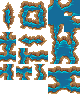
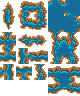
Initial implementation of the river drawing

Changed region(s): [[0.6, 0.0, 1.0, 0.3438], [0.6, 0.2188, 0.8, 0.3438], [0.925, 0.0312, 0.95, 0.0625]]

diff --git a/Narivia.Gui/SpriteEffects/RiverTilingEffect.cs b/Narivia.Gui/SpriteEffects/RiverTilingEffect.cs
@@ -1,0 +1,134 @@
+using Microsoft.Xna.Framework;
+using NuciXNA.Graphics.SpriteEffects;
+using NuciXNA.Primitives;
+
+using Narivia.GameLogic.GameManagers;
+using Narivia.Models;
+
+namespace Narivia.Gui.SpriteEffects
+{
+    public class RiverTilingEffect : SpriteSheetEffect
+    {
+        readonly IWorldManager worldManager;
+
+        readonly World world;
+
+        public Point2D TileLocation { get; set; }
+
+        public RiverTilingEffect(IWorldManager worldManager)
+        {
+            FrameAmount = new Size2D(3, 6);
+
+            this.worldManager = worldManager;
+            this.world = worldManager.GetWorld();
+        }
+
+        public override void UpdateFrame(GameTime gameTime)
+        {
+            CurrentFrame = new Point2D(0, 5);
+
+            bool isRiver = world.Tiles[TileLocation.X, TileLocation.Y].HasRiver;
+            bool isWater = world.Tiles[TileLocation.X, TileLocation.Y].HasWater;
+
+            bool tilesN = world.Tiles[TileLocation.X, TileLocation.Y - 1].HasRiver;
+            bool tilesW = world.Tiles[TileLocation.X - 1, TileLocation.Y].HasRiver;
+            bool tilesS = world.Tiles[TileLocation.X, TileLocation.Y + 1].HasRiver;
+            bool tilesE = world.Tiles[TileLocation.X + 1, TileLocation.Y].HasRiver;
+
+            bool waterN = world.Tiles[TileLocation.X, TileLocation.Y - 1].HasWater;
+            bool waterW = world.Tiles[TileLocation.X - 1, TileLocation.Y].HasWater;
+            bool waterS = world.Tiles[TileLocation.X, TileLocation.Y + 1].HasWater;
+            bool waterE = world.Tiles[TileLocation.X + 1, TileLocation.Y].HasWater;
+            bool waterNW = world.Tiles[TileLocation.X - 1, TileLocation.Y - 1].HasWater;
+            bool waterNE = world.Tiles[TileLocation.X + 1, TileLocation.Y - 1].HasWater;
+            bool waterSW = world.Tiles[TileLocation.X - 1, TileLocation.Y + 1].HasWater;
+            bool waterSE = world.Tiles[TileLocation.X + 1, TileLocation.Y + 1].HasWater;
+
+            if (!isRiver && isWater)
+            {
+                if (tilesN)
+                {
+                    CurrentFrame = new Point2D(3, 0);
+                }
+                else if (tilesW)
+                {
+                    CurrentFrame = new Point2D(4, 0);
+                }
+                else if (tilesS)
+                {
+                    CurrentFrame = new Point2D(3, 1);
+                }
+                else if (tilesE)
+                {
+                    CurrentFrame = new Point2D(4, 1);
+                }
+            }
+            else if (tilesN && tilesW && tilesS && tilesE) // +
+            {
+                CurrentFrame = new Point2D(0, 2);
+            }
+            else if (tilesN && tilesW && !tilesS && tilesE) // _|_
+            {
+                CurrentFrame = new Point2D(0, 3);
+            }
+            else if (tilesN && !tilesW && tilesS && tilesE) // |-
+            {
+                CurrentFrame = new Point2D(1, 3);
+            }
+            else if (tilesN && tilesW && tilesS && !tilesE) // -|
+            {
+                CurrentFrame = new Point2D(0, 4);
+            }
+            else if (!tilesN && tilesW && tilesS && tilesE) // T
+            {
+                CurrentFrame = new Point2D(1, 4);
+            }
+            else if (!tilesN && !tilesW && tilesS && tilesE) // /
+            {
+                CurrentFrame = new Point2D(1, 0);
+            }
+            else if (!tilesN && tilesW && tilesS && !tilesE) // 7
+            {
+                CurrentFrame = new Point2D(2, 0);
+            }
+            else if (tilesN && !tilesW && !tilesS && tilesE) // |_
+            {
+                CurrentFrame = new Point2D(1, 1);
+            }
+            else if (tilesN && tilesW && !tilesS && !tilesE) // _|
+            {
+                CurrentFrame = new Point2D(2, 1);
+            }
+            else if (!tilesW && !tilesE)
+            {
+                if (!tilesN && tilesS && !waterN) // ^
+                {
+                    CurrentFrame = new Point2D(0, 0);
+                }
+                else if ((tilesN || waterN) && (tilesS || waterS)) // ||
+                {
+                    CurrentFrame = new Point2D(2, 4);
+                }
+                else if (tilesN && !tilesS && !waterS) // V
+                {
+                    CurrentFrame = new Point2D(0, 1);
+                }
+            }
+            else if (!tilesN && !tilesS)
+            { 
+                if (!tilesW && tilesE && !waterW) // <
+                {
+                    CurrentFrame = new Point2D(1, 2);
+                }
+                else if ((tilesW || waterW) && (tilesE || waterE)) // =
+                {
+                    CurrentFrame = new Point2D(2, 3);
+                }
+                else if (tilesW && !tilesE && !waterE) // >
+                {
+                    CurrentFrame = new Point2D(2, 2);
+                }
+            }
+        }
+    }
+}

diff --git a/Narivia.Gui/GuiElements/GuiWorldmap.cs b/Narivia.Gui/GuiElements/GuiWorldmap.cs
@@ -35,6 +35,7 @@ namespace Narivia.Gui.GuiElements
         Camera camera;
         World world;
 
+        TextureSprite riverSprite;
         TextureSprite provinceHighlight;
         TextureSprite factionBorder;
         TextureSprite provinceBorder;
@@ -42,7 +43,8 @@ namespace Narivia.Gui.GuiElements
         Dictionary<string, Terrain> terrains;
         Dictionary<string, TextureSprite> terrainSprites;
 
-        TerrainSpriteSheetEffect terrainEffect;
+        RiverTilingEffect riverTilingEffect;
+        TerrainSpriteSheetEffect terrainTilingEffect;
         ProvinceBorderEffect provinceBorderEffect;
         FactionBorderEffect factionBorderEffect;
 
@@ -67,9 +69,18 @@ namespace Narivia.Gui.GuiElements
             terrains = worldManager.GetTerrains().ToDictionary(x => x.Id, x => x);
             terrainSprites = new Dictionary<string, TextureSprite>();
 
-            terrainEffect = new TerrainSpriteSheetEffect(worldManager);
+            riverTilingEffect = new RiverTilingEffect(worldManager);
+            terrainTilingEffect = new TerrainSpriteSheetEffect(worldManager);
             provinceBorderEffect = new ProvinceBorderEffect(worldManager);
             factionBorderEffect = new FactionBorderEffect(worldManager);
+
+            riverSprite = new TextureSprite
+            {
+                ContentFile = $"World/Terrain/water_river",
+                SourceRectangle = new Rectangle2D(Point2D.Empty, GameDefines.MapTileSize, GameDefines.MapTileSize),
+                SpriteSheetEffect = riverTilingEffect,
+                Active = true
+            };
 
             foreach (Terrain terrain in terrains.Values)
             {
@@ -79,7 +90,7 @@ namespace Narivia.Gui.GuiElements
                     SourceRectangle = new Rectangle2D(
                         GameDefines.MapTileSize, GameDefines.MapTileSize * 3,
                         GameDefines.MapTileSize, GameDefines.MapTileSize),
-                    SpriteSheetEffect = terrainEffect,
+                    SpriteSheetEffect = terrainTilingEffect,
                     Active = true
                 };
 
@@ -112,12 +123,13 @@ namespace Narivia.Gui.GuiElements
             };
 
             camera.LoadContent();
-
+            riverSprite.LoadContent();
             provinceHighlight.LoadContent();
             factionBorder.LoadContent();
             provinceBorder.LoadContent();
 
-            terrainEffect.Activate();
+            riverTilingEffect.Activate();
+            terrainTilingEffect.Activate();
             provinceBorderEffect.Activate();
             factionBorderEffect.Activate();
 
@@ -131,10 +143,16 @@ namespace Narivia.Gui.GuiElements
         {
             camera.UnloadContent();
 
+            riverSprite.UnloadContent();
             provinceHighlight.UnloadContent();
             factionBorder.UnloadContent();
             provinceBorder.UnloadContent();
             factionBorder.UnloadContent();
+
+            foreach (TextureSprite terrainSprite in terrainSprites.Values)
+            {
+                terrainSprite.UnloadContent();
+            }
 
             terrainSprites.Clear();
 
@@ -150,7 +168,7 @@ namespace Narivia.Gui.GuiElements
             camera.Size = Size;
 
             camera.Update(gameTime);
-
+            
             provinceHighlight.Update(gameTime);
             factionBorder.Update(gameTime);
             provinceBorder.Update(gameTime);
@@ -219,19 +237,32 @@ namespace Narivia.Gui.GuiElements
         void DrawTile(SpriteBatch spriteBatch, int x, int y)
         {
             WorldTile tile = world.Tiles[x, y];
+            Point2D location = new Point2D(x, y);
 
             // TODO: Don't do all this, and definetely don't do it here
-            terrainEffect.TileLocation = new Point2D(x, y);
+            terrainTilingEffect.TileLocation = location;
 
             foreach (string terrainId in tile.TerrainIds)
             {
                 Terrain terrain = terrains[terrainId]; // TODO: Optimise this. Don't call this every time
 
-                terrainEffect.TerrainId = terrain.Id;
-                terrainEffect.TilesWith = new List<string> { terrain.Id };
-                terrainEffect.Update(null);
+                terrainTilingEffect.TerrainId = terrain.Id;
+                terrainTilingEffect.TilesWith = new List<string> { terrain.Id };
+                terrainTilingEffect.Update(null);
 
                 DrawTerrainSprite(spriteBatch, x, y, terrain.Spritesheet, 1, 3);
+            }
+
+            if (tile.HasRiver || tile.HasWater)
+            {
+                riverTilingEffect.TileLocation = location;
+                riverTilingEffect.Update(null);
+
+                riverSprite.Location = new Point2D(
+                    x * GameDefines.MapTileSize - camera.Location.X,
+                    y * GameDefines.MapTileSize - camera.Location.Y);
+
+                riverSprite.Draw(spriteBatch);
             }
         }
 

diff --git a/Narivia.DataAccess/Repositories/WorldRepository.cs b/Narivia.DataAccess/Repositories/WorldRepository.cs
@@ -158,10 +158,11 @@ namespace Narivia.DataAccess.Repositories
                 tiles[x, y].ProvinceId = provinceColourIds[provinceArgb];
                 tiles[x, y].TerrainId = terrainColourIds[terrainArgb];
                 tiles[x, y].TerrainIds.Add(terrainColourIds[terrainArgb]);
-                tiles[x, y].HasRiver = riverColour == Colour.Blue;
+                tiles[x, y].HasRiver = riverColour.Equals(0, 0, 255);
+                
 
-                if (heightColour == Colour.Blue ||
-                    heightColour == Colour.Black)
+                if (heightColour.Equals(0, 0, 255) ||
+                    heightColour.Equals(0, 0, 0))
                 {
                     tiles[x, y].HasWater = true;
                     tiles[x, y].Altitude = 0;
